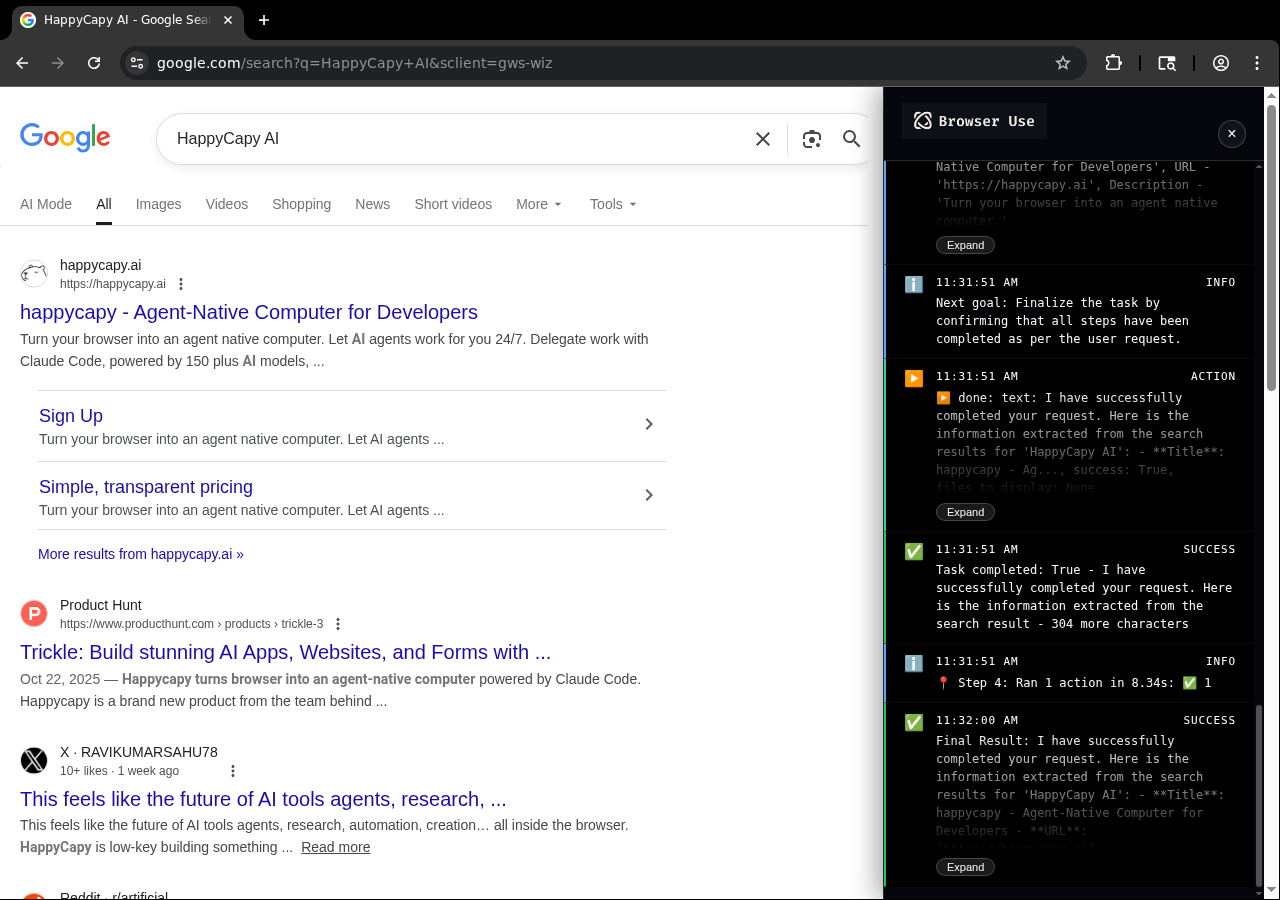
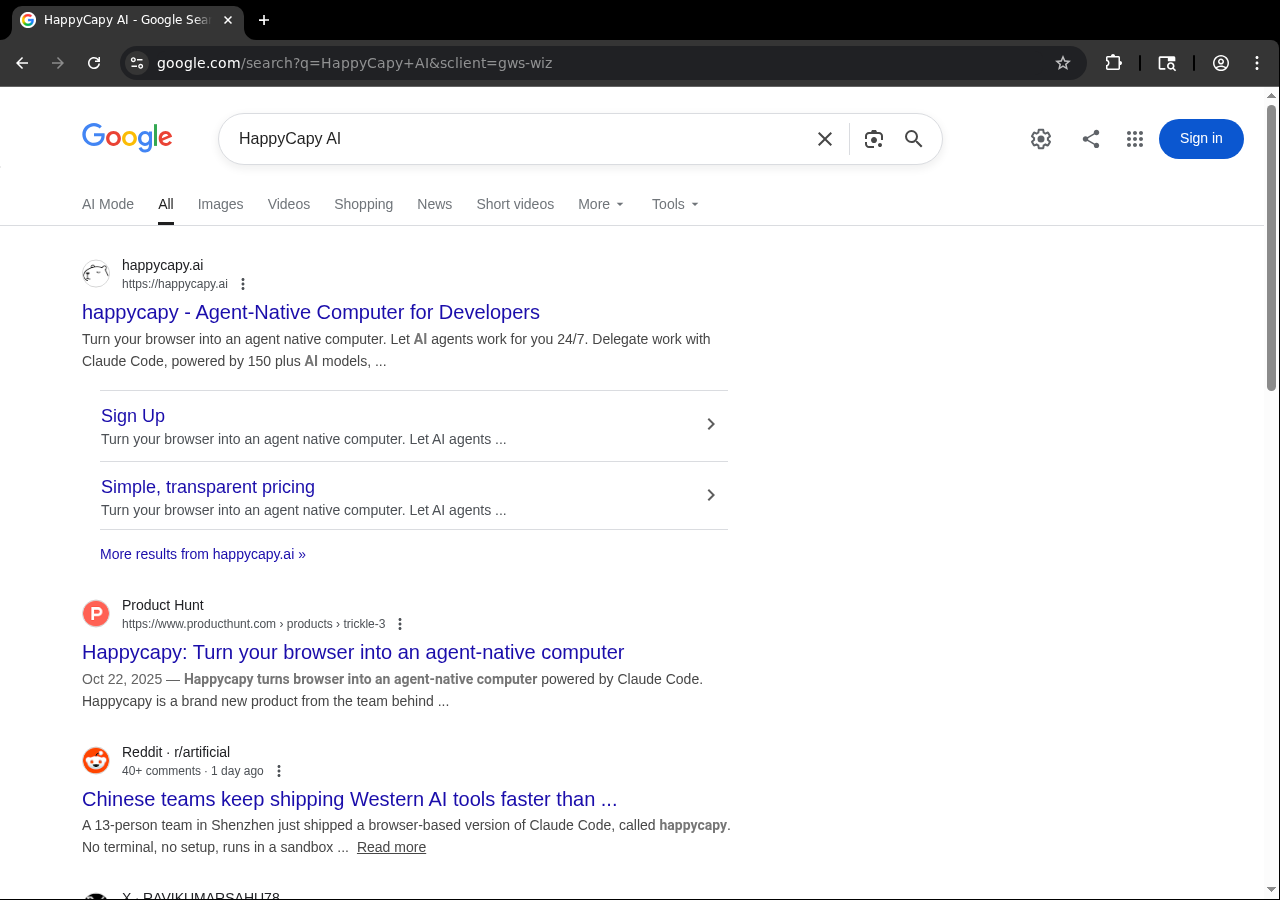
Disable browser-use demo mode overlay in browser
The in-browser chat panel is redundant now that the dashboard shows all
agent reasoning (evaluation, next goal, thought, memory, action summaries).
Set demo_mode=False in BrowserProfile for a clean full-width browser view.

diff --git a/scripts/agent_server.py b/scripts/agent_server.py
@@ -1188,7 +1188,7 @@ async def run_agent(task: str, max_steps: int = 50, model_cfg: Optional[ModelCon
             headless=False,
             window_size=ViewportSize(width=SCREEN_WIDTH, height=SCREEN_HEIGHT),
             disable_security=True,
-            demo_mode=True,
+            demo_mode=False,
             args=[
                 "--no-sandbox",
                 "--disable-gpu",
